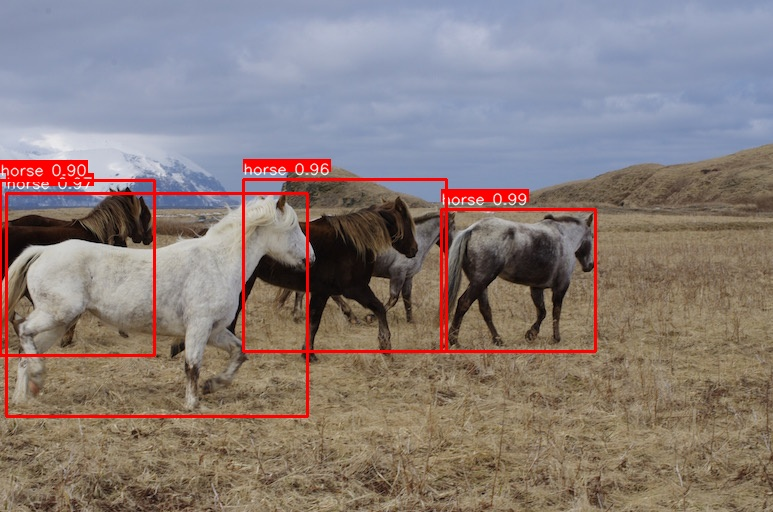
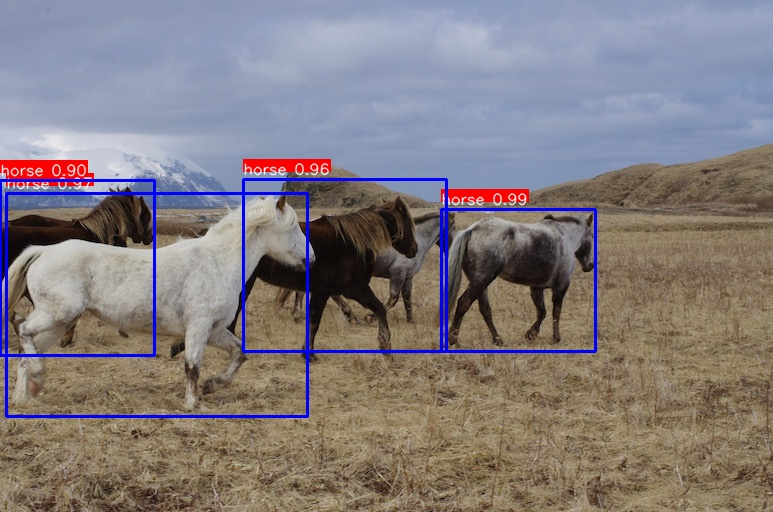
blue

Changed region(s): [[0.0, 0.3438, 0.7762, 0.8438]]

diff --git a/supervised_learning/object_detection/6-yolo.py b/supervised_learning/object_detection/6-yolo.py
@@ -213,7 +213,7 @@ class Yolo:
         for i, box in enumerate(boxes):
             # Draw the bounding box
             cv2.rectangle(image, (int(box[0]), int(box[1])),
-                          (int(box[2]), int(box[3])), (0, 0, 255), 2)
+                          (int(box[2]), int(box[3])), (255, 0, 0), 2)
 
             # Prepare text with class name and box score
             text = "{} {:.2f}".format(self.class_names[box_classes[i]],
